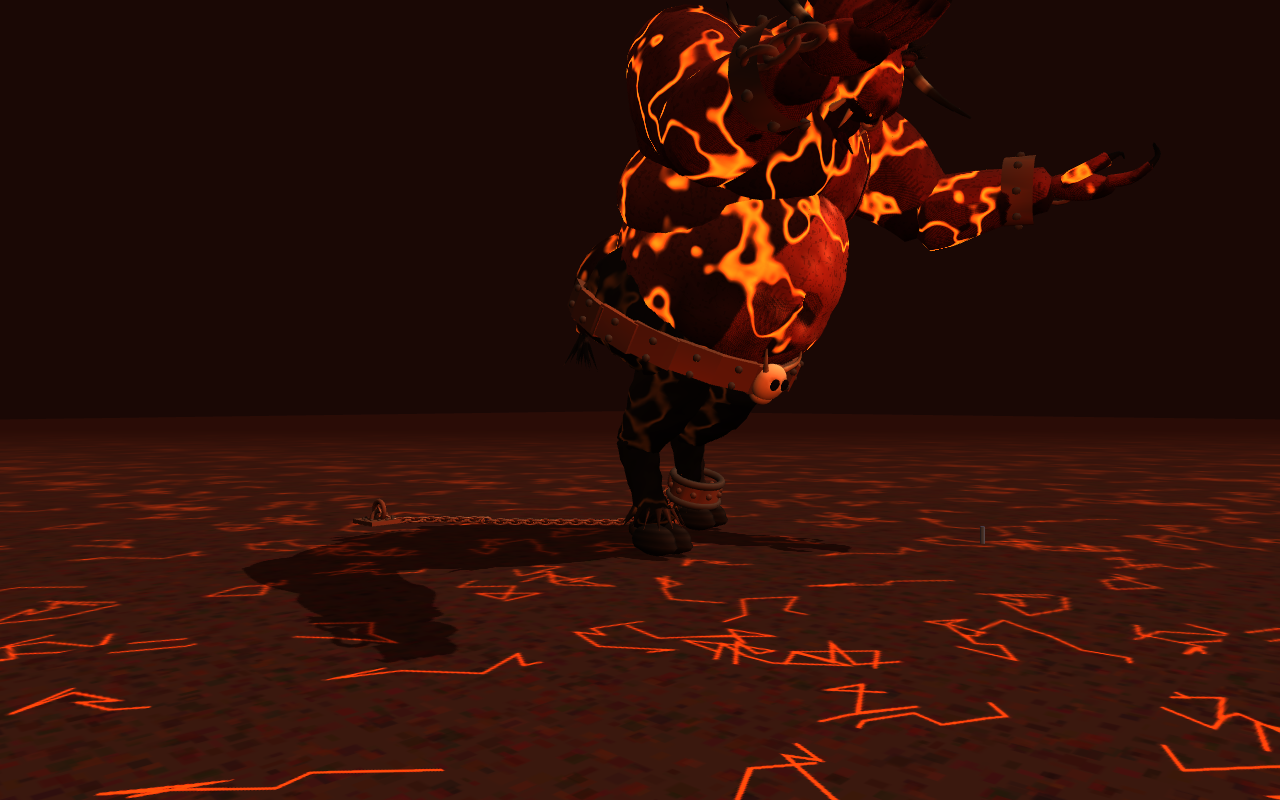
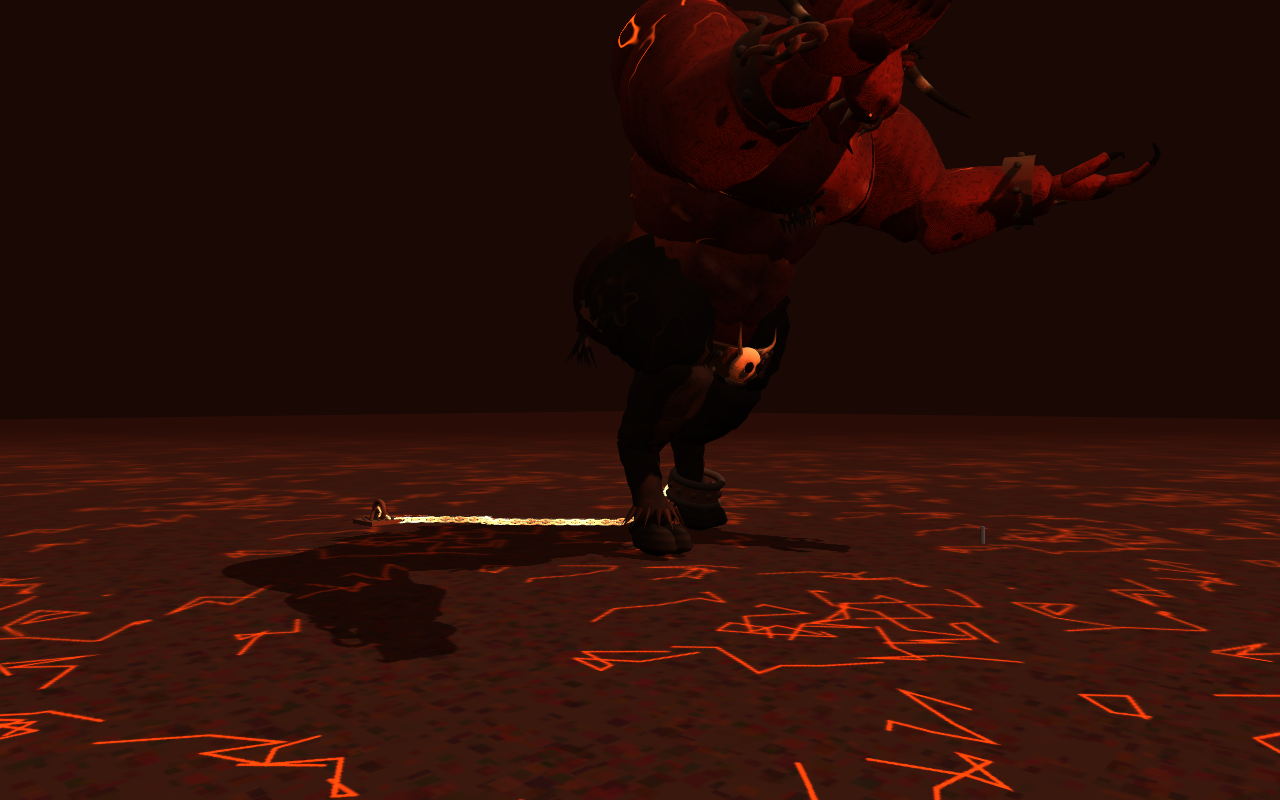
Цепь Дьяволоса сияет божественным светом
Звенья светлого металла, по ним бегут волны белого золота и руны, мягкий ореол
(вторая InstancedMesh с теми же матрицами, аддитивно, без ламп). Цепь лопнула при
его смерти — свет гаснет за 4 с; у останков цепь тёмная.

Claude-Session: https://claude.ai/code/session_01Mpy7conc3GY2y3zL4LDFSX

diff --git a/src/game/Diabolos.js b/src/game/Diabolos.js
@@ -22,7 +22,7 @@ import { GRAB, STUN, DEATH, godStrike, rageTempo, grabPhase, deathPhase } from '
 import { TALK, LINES, SITS, CAT_TALK, pickLine } from './DiabolosTalk.js';
 import { DEVIL, WAKE, MOVES, MOVE_IDS, FIRE, BALL, STATES, ChainRope, leash, wakes, planMove, DIRECTOR, devilVerdict, furyAfter,
     inDevilFire, ballSpeed, ballVerdict, ballDamage, sleepDelay, yawTo, FACE_OK, seatFrom } from './DiabolosRules.js';
-import { diabolosModel, poseDiabolos, chainLinkGeo, chainMaterial, anchorModel, eyeletWorld, mouthWorld, fistWorld, hoofWorld, devilHeat, devilWound, devilFar, JOINTS } from '../entities/DiabolosModel.js';
+import { diabolosModel, poseDiabolos, chainLinkGeo, chainMaterial, anchorModel, eyeletWorld, mouthWorld, fistWorld, hoofWorld, devilHeat, devilWound, devilFar, chainGlowMaterial, devilChainLight, JOINTS } from '../entities/DiabolosModel.js';
 import { Chest } from '../entities/Chest.js';
 import { makeDivineSword } from './DivineSword.js';
 import { FarShape } from '../core/FarShape.js';
@@ -146,11 +146,7 @@ export class Diabolos {
         this.one = new FarShape(m);
         this.one.set(true);
         const n = DEVIL.CHAIN_LINKS;
-        this.chainMesh = new THREE.InstancedMesh(chainLinkGeo(), chainMaterial(), n);
-        this.chainMesh.frustumCulled = false; // (звенья по всей котловине: сфера формы им не верна)
-        this.chainMesh.castShadow = true; this.chainMesh.receiveShadow = true;
-        this.chainMesh.name = 'diabolos-chain';
-        g.scene?.add(this.chainMesh);
+        this._makeChain(n, true);
         this.anchor = anchorModel();
         this.anchor.position.set(anchor.x, anchor.y - 3, anchor.z);
         g.scene?.add(this.anchor);
@@ -158,6 +154,24 @@ export class Diabolos {
         this._pose(0);
         this._note('😈 Дьяволос в мире (спит)');
         this._creativeSword();
+    }
+
+    /** Цепь: звенья (InstancedMesh) + ореол божественного света — вторая InstancedMesh с ТЕМИ ЖЕ матрицами (2 отрисовки, без ламп). */
+    _makeChain(n, alive) {
+        const g = this.game;
+        this.chainMesh = new THREE.InstancedMesh(chainLinkGeo(), chainMaterial(), n);
+        this.chainMesh.frustumCulled = false; // (звенья по всей котловине: сфера формы им не верна)
+        this.chainMesh.castShadow = true; this.chainMesh.receiveShadow = true;
+        this.chainMesh.name = 'diabolos-chain';
+        g.scene?.add(this.chainMesh);
+        this.chainGlow = new THREE.InstancedMesh(chainLinkGeo(), chainGlowMaterial(), n);
+        this.chainGlow.instanceMatrix = this.chainMesh.instanceMatrix;
+        this.chainGlow.frustumCulled = false;
+        this.chainGlow.name = 'diabolos-chain-glow';
+        this.chainGlow.renderOrder = 2;
+        this.chainGlow.visible = alive;
+        g.scene?.add(this.chainGlow);
+        if (alive) devilChainLight(1);
     }
 
     _unload() {
@@ -169,6 +183,7 @@ export class Diabolos {
             this.model = null; this.one = null;
         }
         if (this.chainMesh) { g.scene?.remove(this.chainMesh); this.chainMesh.dispose?.(); this.chainMesh = null; }
+        if (this.chainGlow) { g.scene?.remove(this.chainGlow); this.chainGlow = null; }
         if (this.anchor) { g.scene?.remove(this.anchor); this.anchor = null; }
         this._dropChests();
         this._remains = false;
@@ -1329,6 +1344,7 @@ export class Diabolos {
             if (t >= D.nextFire) { D.nextFire = t + 1.1 + Math.random(); const a = Math.random() * Math.PI * 2; this._flameBurst(mouthWorld(this.model, _a).clone(), _w.set(Math.cos(a), 0, Math.sin(a)), 70, 0.8); g.sound?.playDevil?.(p, 'fire', 0.9); }
         }
         if (t >= D.chainT && !this.rope.free) { this.rope.free = true; g.sound?.playDevil?.(eyeletWorld(this.model, _a), 'chainBreak', 1.6); this._note('😈 Дьяволос: цепь лопнула'); }
+        if (this.rope.free) { const k = Math.max(0, 1 - (t - D.chainT) / 4); devilChainLight(k); if (this.chainGlow) this.chainGlow.visible = k > 0.01; } // (цепь лопнула — божественный свет гаснет за 4 с)
         if (ph === 'fall' || ph === 'ash') {
             // осыпается золой и светом; рога трескаются (искры у рогов)
             const fx = g.fx;
@@ -1379,10 +1395,8 @@ export class Diabolos {
         if (!R.ready) R.lay(anchor, { x: s.x, y: y + 0.6, z: s.z }, (x, z) => this._ground(x, z, y));
         for (let i = 0; i < 240; i++) R.step(1 / 60, anchor, null, (x, z) => this._ground(x, z, y));
         this.rope = R;
-        this.chainMesh = new THREE.InstancedMesh(chainLinkGeo(), chainMaterial(), R.n);
-        this.chainMesh.frustumCulled = false; this.chainMesh.name = 'diabolos-chain';
+        this._makeChain(R.n, false); devilChainLight(0); // (мёртв: цепь лопнула и погасла)
         this._linksFrom(R);
-        g.scene?.add(this.chainMesh);
         this._makeChests(y);
     }
     _linksFrom(R) {
@@ -1515,7 +1529,8 @@ export class Diabolos {
         const m = diabolosModel();
         new FarShape(m).set(true);
         const c = new THREE.InstancedMesh(chainLinkGeo(), chainMaterial(), 2);
-        return [m, c, anchorModel(), ballModel(), rockModel()];
+        const cg = new THREE.InstancedMesh(chainLinkGeo(), chainGlowMaterial(), 2);
+        return [m, c, cg, anchorModel(), ballModel(), rockModel()];
     }
 
     _note(t) {

diff --git a/src/entities/DiabolosModel.js b/src/entities/DiabolosModel.js
@@ -419,7 +419,7 @@ function build() {
 }
 
 // ------------------------------------------------------------------ материалы
-const DEVIL_U = { uFarK: { value: 1 }, uSeeFar: { value: 1900 }, uTime: { value: 0 }, uHeat: { value: 0.35 }, uWound: { value: new THREE.Vector4(0, -99, 0, 0) }, uWoundK: { value: 0 }, uDissolve: { value: 0 } };
+const DEVIL_U = { uChainOn: { value: 1 }, uFarK: { value: 1 }, uSeeFar: { value: 1900 }, uTime: { value: 0 }, uHeat: { value: 0.35 }, uWound: { value: new THREE.Vector4(0, -99, 0, 0) }, uWoundK: { value: 0 }, uDissolve: { value: 0 } };
 const NOISE_GLSL = `
 float dh(vec3 p){ p = fract(p * 0.3183099 + 0.1); p *= 17.0; return fract(p.x * p.y * p.z * (p.x + p.y + p.z)); }
 float dn(vec3 x){ vec3 i = floor(x), f = fract(x); f = f * f * (3.0 - 2.0 * f);
@@ -500,8 +500,25 @@ totalEmissiveRadiance += vec3(1.0, 0.32, 0.04) * dCrack * dPulse * (0.3 + 1.1 * 
     glow.name = 'diabolos-glow';
     glow.onBeforeCompile = (sh) => injectDeath(sh, false, 0.5); // (глаза, пасть, жар — сквозь дымку ярче)
     glow.customProgramCacheKey = () => 'diabolos-glow';
-    const chain = new THREE.MeshLambertMaterial({ color: 0xffffff, vertexColors: true });
+    // Цепь сияет божественным светом (слова автора): боги сковали его — звенья светлого металла, по ним бегут волны белого золота
+    // и руны-кольца, металл блестит там, где звенья трутся; свет — эмиссия (без ламп), сквозь дымку ада видна издалека.
+    const chain = new THREE.MeshLambertMaterial({ color: 0xffffff, vertexColors: true, emissive: 0x000000 });
     chain.name = 'diabolos-chain';
+    chain.onBeforeCompile = (sh) => {
+        sh.uniforms.uTime = DEVIL_U.uTime; sh.uniforms.uChainOn = DEVIL_U.uChainOn;
+        sh.vertexShader = sh.vertexShader.replace('#include <common>', '#include <common>\nvarying vec3 vCw; varying vec3 vCl;')
+            .replace('#include <worldpos_vertex>', '#include <worldpos_vertex>\nvec4 cW = vec4(transformed, 1.0);\n#ifdef USE_INSTANCING\ncW = instanceMatrix * cW;\n#endif\nvCw = (modelMatrix * cW).xyz; vCl = position;');
+        sh.fragmentShader = sh.fragmentShader.replace('#include <common>', '#include <common>\nvarying vec3 vCw; varying vec3 vCl; uniform float uTime; uniform float uChainOn;')
+            .replace('#include <color_fragment>', `#include <color_fragment>
+diffuseColor.rgb = mix(diffuseColor.rgb, vec3(0.93, 0.86, 0.66), 0.55 * uChainOn);`)
+            .replace('#include <emissivemap_fragment>', `#include <emissivemap_fragment>
+float cWave = 0.5 + 0.5 * sin((vCw.x + vCw.z) * 0.22 - uTime * 2.6);
+float cRune = smoothstep(0.82, 1.0, sin(atan(vCl.y, vCl.x) * 9.0 + uTime * 1.3)) * smoothstep(0.2, 0.0, abs(length(vCl.xy) - 1.0));
+float cEdge = smoothstep(0.55, 1.0, abs(vCl.x));
+vec3 cGold = vec3(1.0, 0.86, 0.52), cWhite = vec3(1.0, 0.97, 0.88);
+totalEmissiveRadiance += uChainOn * (cGold * (0.35 + 0.55 * cWave) + cWhite * (cRune * 1.6 + cEdge * 0.35 * cWave));`);
+    };
+    chain.customProgramCacheKey = () => 'diabolos-chain-holy';
     const iron = new THREE.MeshLambertMaterial({ color: 0xffffff, vertexColors: true }); // (якорь: не растворяется вместе с ним)
     iron.name = 'diabolos-iron';
     for (const m of [skin, hard, glow, chain, iron]) m.userData.shared = true;
@@ -604,6 +621,39 @@ export function anchorModel() {
 }
 /** Материал цепи (Diabolos.js делает InstancedMesh). */
 export const chainMaterial = () => devilMats().chain;
+let _chainGlow = null;
+/** Ореол цепи: те же звенья, раздутые по нормали, мягкое золотое свечение по краю (аддитивно, без ламп). Вторая InstancedMesh с ТЕМИ ЖЕ матрицами. */
+export function chainGlowMaterial() {
+    if (_chainGlow) return _chainGlow;
+    _chainGlow = new THREE.ShaderMaterial({
+        uniforms: { uTime: DEVIL_U.uTime, uChainOn: DEVIL_U.uChainOn },
+        vertexShader: `uniform float uTime; varying float vRim; varying float vW;
+void main() {
+  vec3 p = position + normal * 0.32;
+  vec4 w = vec4(p, 1.0);
+  #ifdef USE_INSTANCING
+  w = instanceMatrix * w;
+  #endif
+  vec4 wp = modelMatrix * w;
+  vW = 0.5 + 0.5 * sin((wp.x + wp.z) * 0.22 - uTime * 2.6);
+  vec4 mv = viewMatrix * wp;
+  vec3 n = normalize(mat3(viewMatrix) * mat3(modelMatrix) * normal);
+  vRim = 1.0 - abs(dot(n, normalize(-mv.xyz)));
+  gl_Position = projectionMatrix * mv;
+}`,
+        fragmentShader: `uniform float uChainOn; varying float vRim; varying float vW;
+void main() {
+  float a = pow(vRim, 2.2) * (0.35 + 0.45 * vW) * uChainOn;
+  gl_FragColor = vec4(vec3(1.0, 0.85, 0.5) * a, a);
+}`,
+        transparent: true, depthWrite: false, blending: THREE.AdditiveBlending,
+    });
+    _chainGlow.name = 'diabolos-chain-glow';
+    _chainGlow.userData.shared = true;
+    return _chainGlow;
+}
+/** Свет цепи: 1 — сияет; 0 — погасла (он мёртв, цепь лопнула и лежит тёмным металлом). */
+export function devilChainLight(k) { DEVIL_U.uChainOn.value = k; }
 
 // ------------------------------------------------------------------ позы
 const _e = new THREE.Euler(), _t = new THREE.Vector3(), _m4 = new THREE.Matrix4();

diff --git a/tools/devil-view.html b/tools/devil-view.html
@@ -3,7 +3,7 @@
 <script type="importmap">{"imports":{"three":"/node_modules/three/build/three.module.js"}}</script></head>
 <body><script type="module">
 import * as THREE from 'three';
-import { diabolosModel, poseDiabolos, chainLinkGeo, chainMaterial, anchorModel, eyeletWorld, devilHeat, devilWound } from '/src/entities/DiabolosModel.js';
+import { diabolosModel, poseDiabolos, chainLinkGeo, chainMaterial, chainGlowMaterial, anchorModel, eyeletWorld, devilHeat, devilWound } from '/src/entities/DiabolosModel.js';
 import { Diabolos } from '/src/game/Diabolos.js';
 import { FarShape } from '/src/core/FarShape.js';
 import { ChainRope, DEVIL } from '/src/game/DiabolosRules.js';
@@ -55,6 +55,7 @@ const cm = new THREE.InstancedMesh(chainLinkGeo(), chainMaterial(), rope.n); cm.
 const a = {}, b = {}, M = new THREE.Matrix4(), Q = new THREE.Quaternion(), Y = new THREE.Vector3(0, 1, 0), R90 = new THREE.Quaternion().setFromAxisAngle(Y, Math.PI / 2);
 for (let i = 0; i < rope.n; i++) { rope.at(i, a); rope.at(i + 1, b); const d = new THREE.Vector3(b.x - a.x, b.y - a.y, b.z - a.z).normalize(); Q.setFromUnitVectors(Y, d); if (i % 2) Q.multiply(R90); M.compose(new THREE.Vector3((a.x + b.x) / 2, (a.y + b.y) / 2, (a.z + b.z) / 2), Q, new THREE.Vector3(1, 1, 1)); cm.setMatrixAt(i, M); }
 scene.add(cm);
+const cg = new THREE.InstancedMesh(chainLinkGeo(), chainGlowMaterial(), rope.n); cg.instanceMatrix = cm.instanceMatrix; cg.renderOrder = 2; scene.add(cg);
 // герой рядом для масштаба (3,5 м)
 const hero = new THREE.Mesh(new THREE.CylinderGeometry(0.45, 0.45, 3.5, 12), new THREE.MeshLambertMaterial({ color: 0x3a6ad0 }));
 hero.position.set(+(q.get('hx') || -40), 1.75, +(q.get('hz') || -50)); scene.add(hero);
